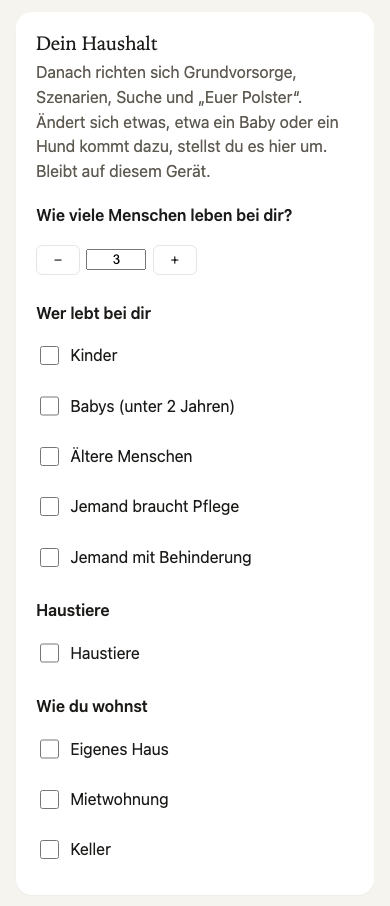
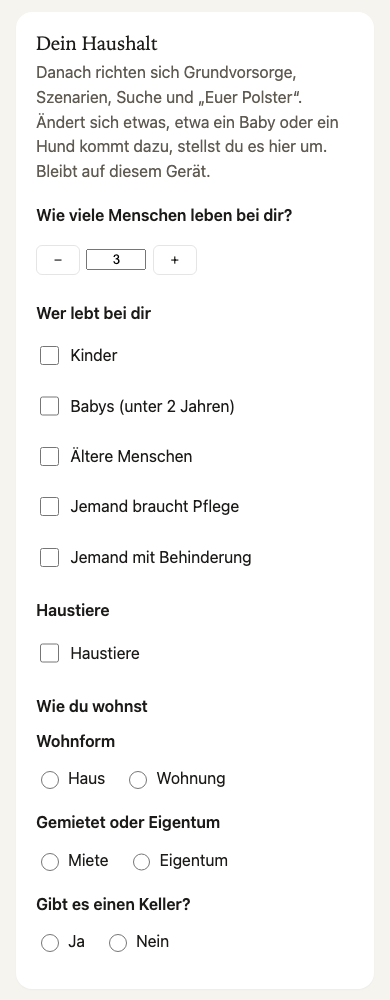
Nr. 40 Nachtrag: „Wie du wohnst“ als vier Fragen (Wohnform, Miete/Eigentum, Keller, Stockwerk)
- haushalt-v2.wohnen = { form: haus|wohnung, besitz: miete|eigentum, keller: ja/nein, stock (nur Wohnung) }; Merkmale weiter
  haus/miete/keller, neu wohnung/eigentum/stock-hoch (ab 4. Stock)
- Übernahme: Eigenes Haus → Haus + Eigentum, Mietwohnung → Wohnung + Miete, Keller → Keller Ja; Widersprüchliches bleibt offen
- Tests: Regel-Test für die Übernahme (auch „Keller ohne Wohnform“), Browser-Test (b) mit den neuen Feldern; Bilder neu

Changed region(s): [[0.0923, 0.0309, 0.8615, 0.4636], [0.0923, 0.4945, 0.6462, 0.9581], [0.0923, 0.4945, 0.1538, 0.5254]]

diff --git a/web/haushalt.js b/web/haushalt.js
@@ -7,7 +7,10 @@
 export const GRUPPEN = [["kinder", "Kinder"], ["babys", "Babys (unter 2 Jahren)"], ["aeltere", "Ältere Menschen"], ["pflege", "Jemand braucht Pflege"], ["behinderung", "Jemand mit Behinderung"]];
 /** Tierart: Schlüssel, Beschriftung, Einzahl, Mehrzahl. */
 export const TIERE = [["hund", "Hund", "Hund", "Hunde"], ["katze", "Katze", "Katze", "Katzen"], ["kaninchen", "Kaninchen", "Kaninchen", "Kaninchen"], ["vogel", "Vogel", "Vogel", "Vögel"], ["reptilien", "Reptilien", "Reptil", "Reptilien"], ["andere", "Andere", "anderes Tier", "andere Tiere"]];
-export const WOHNEN = [["haus", "Eigenes Haus"], ["miete", "Mietwohnung"], ["keller", "Keller"]];
+/** Wie man wohnt (Nachtrag Nr. 40, Mik: „Wer wohnt in einem Keller?“): vier eigene Fragen statt drei gleichrangiger Haken. */
+export const WOHNFORM = [["haus", "Haus"], ["wohnung", "Wohnung"]];
+export const BESITZ = [["miete", "Miete"], ["eigentum", "Eigentum"]];
+export const STOCK_HOCH = 4; // ab dem 4. Stock kommt oben zuerst kein Wasser mehr, und der Lift fällt aus
 const ALT_GRUPPEN = ["kinder", "aeltere", "pflege", "behinderung"];
 
 const zahl = (x, min, max) => Math.min(max, Math.max(min, Math.floor(Number(x) || 0)));
@@ -19,9 +22,22 @@ export function haushaltAngaben(h = {}) {
   return {
     personen: h.personen == null ? null : zahl(h.personen, 1, 20),
     gruppen, tiere: { an: !!h.tiere?.an, arten },
-    wohnen: WOHNEN.map(([k]) => k).filter((k) => (h.wohnen ?? []).includes(k)),
+    wohnen: wohnenAngaben(h.wohnen),
     eingestellt: !!h.eingestellt,
   };
+}
+
+const wahl = (x, liste) => (liste.some(([k]) => k === x) ? x : null);
+function wohnenAngaben(w) {
+  const o = w && !Array.isArray(w) ? w : {};
+  const form = wahl(o.form, WOHNFORM);
+  return { form, besitz: wahl(o.besitz, BESITZ), keller: o.keller === true ? true : o.keller === false ? false : null, stock: form === "wohnung" && o.stock != null ? zahl(o.stock, 0, 99) : null };
+}
+/** Alte Haken (Eigenes Haus · Mietwohnung · Keller) → die vier Fragen. Was sich widerspricht, bleibt offen – nicht raten. */
+function wohnenAusAlt(tags) {
+  const haus = tags.includes("haus"), miete = tags.includes("miete");
+  const eindeutig = haus !== miete;
+  return { form: eindeutig ? (haus ? "haus" : "wohnung") : null, besitz: eindeutig ? (haus ? "eigentum" : "miete") : null, keller: tags.includes("keller") ? true : null, stock: null };
 }
 
 /** Übernahme beim Update: alte Haken → Ja mit Anzahl 1; Personen aus dem Polster, wenn dort schon eine Zahl stand. */
@@ -31,7 +47,7 @@ export function haushaltAusAlt(alt = [], polsterPersonen = null) {
     personen: polsterPersonen ?? null,
     gruppen: Object.fromEntries(ALT_GRUPPEN.filter((k) => tags.includes(k)).map((k) => [k, 1])),
     tiere: { an: tags.includes("tiere"), arten: {} },
-    wohnen: tags.filter((k) => WOHNEN.some(([w]) => w === k)),
+    wohnen: wohnenAusAlt(tags),
     eingestellt: tags.length > 0, // wer schon Haken gesetzt hatte, hatte eingestellt
   });
 }
@@ -42,7 +58,11 @@ export function merkmale(h) {
   for (const [k] of GRUPPEN) if (h.gruppen[k]) m.push(k);
   if (h.gruppen.babys && !m.includes("kinder")) m.push("kinder");
   if (h.tiere.an) { m.push("tiere"); for (const [k] of TIERE) if (h.tiere.arten[k]) m.push(`tier-${k}`); }
-  m.push(...h.wohnen);
+  const w = h.wohnen;
+  if (w.form) m.push(w.form);
+  if (w.besitz) m.push(w.besitz);
+  if (w.keller) m.push("keller");
+  if (w.form === "wohnung" && (w.stock ?? 0) >= STOCK_HOCH) m.push("stock-hoch");
   if (h.eingestellt && !m.length) m.push("eingestellt"); // eingestellt, aber nichts davon: nur noch, was für alle gilt
   return m;
 }
@@ -56,7 +76,11 @@ export function zusammenfassung(h) {
     const arten = TIERE.filter(([k]) => h.tiere.arten[k]).map(([k, , eins, viele]) => `${h.tiere.arten[k]} ${h.tiere.arten[k] === 1 ? eins : viele}`);
     teile.push(arten.length ? arten.join(", ") : "Haustiere");
   }
-  for (const [k, n] of WOHNEN) if (h.wohnen.includes(k)) teile.push(n);
+  const w = h.wohnen;
+  if (w.form === "haus") teile.push("Haus");
+  if (w.form === "wohnung") teile.push(w.stock == null ? "Wohnung" : w.stock === 0 ? "Wohnung im Erdgeschoss" : `Wohnung im ${w.stock}. Stock`);
+  if (w.besitz) teile.push(w.besitz === "miete" ? "Miete" : "Eigentum");
+  if (w.keller === true) teile.push("Keller");
   return teile.join(", ");
 }
 
@@ -64,6 +88,8 @@ const esc = (s) => String(s ?? "").replace(/[&<>"]/g, (c) => ({ "&": "&amp;", "<
 const zahlFeld = (id, titel, wert, min, max) => `<div class="hh-zahl"><button type="button" class="btn of-btn hh-schritt" data-hh-schritt="${id}" data-hh-um="-1" aria-label="${esc(titel)}: weniger">−</button>
   <input class="of-input" id="hh-${id}" data-hh-zahl="${id}" type="number" inputmode="numeric" min="${min}" max="${max}" value="${wert}" aria-label="${esc(titel)}">
   <button type="button" class="btn of-btn hh-schritt" data-hh-schritt="${id}" data-hh-um="1" aria-label="${esc(titel)}: mehr">+</button></div>`;
+const frage = (id, titel, wahlen, gewaehlt) => `<div class="hh-frage" role="radiogroup" aria-labelledby="hh-f-${id}"><span class="hh-name" id="hh-f-${id}">${esc(titel)}</span>
+  <span class="hh-wahlen">${wahlen.map(([k, n]) => `<label class="hh-wahl"><input type="radio" name="hh-${id}" data-hh-wahl="wohnen-${id}" value="${k}" ${gewaehlt === k ? "checked" : ""}> ${esc(n)}</label>`).join("")}</span></div>`;
 const schalter = (id, titel, an) => `<label class="hh-schalter"><input type="checkbox" role="switch" data-hh-an="${id}" ${an ? "checked" : ""}> <span>${esc(titel)}</span></label>`;
 
 /** Abschnitt in den Einstellungen. */
@@ -79,7 +105,10 @@ export function haushaltEinstellungHtml(h) {
       ${h.tiere.an ? TIERE.map(([k, name, , viele]) => `<div class="hh-zeile hh-tier">${schalter(`tier-${k}`, name, !!h.tiere.arten[k])}${h.tiere.arten[k] ? zahlFeld(`tier-${k}`, `${viele}: Anzahl`, h.tiere.arten[k], 1, 50) : ""}</div>`).join("") : ""}
     </fieldset>
     <fieldset class="hh-gruppe"><legend>Wie du wohnst</legend>
-      ${WOHNEN.map(([k, n]) => `<div class="hh-zeile">${schalter(`wohnen-${k}`, n, h.wohnen.includes(k))}</div>`).join("")}
+      ${frage("form", "Wohnform", WOHNFORM, h.wohnen.form)}
+      ${frage("besitz", "Gemietet oder Eigentum", BESITZ, h.wohnen.besitz)}
+      ${frage("keller", "Gibt es einen Keller?", [["ja", "Ja"], ["nein", "Nein"]], h.wohnen.keller === true ? "ja" : h.wohnen.keller === false ? "nein" : null)}
+      ${h.wohnen.form === "wohnung" ? `<div class="hh-zeile"><span class="hh-name">In welchem Stock? <span class="muted of-klein">(0 = Erdgeschoss)</span></span>${zahlFeld("wohnen-stock", "Stockwerk", h.wohnen.stock ?? 0, 0, 99)}</div>` : ""}
     </fieldset>
   </section>`;
 }
@@ -91,7 +120,7 @@ export function haushaltAendern(h, feld, wert) {
   if (feld === "personen") n.personen = wert;
   else if (feld === "tiere") { n.tiere.an = !!wert; if (!wert) n.tiere.arten = {}; }
   else if (feld.startsWith("tier-")) { const a = feld.slice(5); if (wert === true) n.tiere.arten[a] = n.tiere.arten[a] || 1; else if (wert === false) delete n.tiere.arten[a]; else n.tiere.arten[a] = wert; }
-  else if (feld.startsWith("wohnen-")) { const w = feld.slice(7); n.wohnen = wert ? [...new Set([...n.wohnen, w])] : n.wohnen.filter((x) => x !== w); }
+  else if (feld.startsWith("wohnen-")) { const w = feld.slice(7); n.wohnen[w] = w === "keller" ? wert === "ja" || wert === true : wert; }
   else if (wert === true) n.gruppen[feld] = n.gruppen[feld] || 1;
   else if (wert === false) delete n.gruppen[feld];
   else n.gruppen[feld] = wert;

diff --git a/web/app.js b/web/app.js
@@ -2875,6 +2875,7 @@ main.addEventListener("change", (e) => {
     return pos ? bestaetigen(pos.id, t.checked) : render();
   }
   if (t.dataset.hhAn) { haushaltSetzen(haushaltAendern(state.haushaltV2, t.dataset.hhAn, t.checked)); document.querySelector(`[data-hh-an="${t.dataset.hhAn}"]`)?.focus(); return; } // Nr. 40
+  if (t.dataset.hhWahl) { haushaltSetzen(haushaltAendern(state.haushaltV2, t.dataset.hhWahl, t.value)); document.querySelector(`[data-hh-wahl="${t.dataset.hhWahl}"][value="${t.value}"]`)?.focus(); return; }
   if (t.dataset.hhZahl) { haushaltSetzen(haushaltAendern(state.haushaltV2, t.dataset.hhZahl, Number(t.value))); document.getElementById(t.id)?.focus(); return; }
 
   if (t.dataset.szCheck) { // Checkliste einer Szenario-Karte: gemerkt wird der Satz, nicht die Stelle
@@ -3060,9 +3061,9 @@ main.addEventListener("click", (e) => {
   const b = e.target.closest("[data-hh-schritt]");
   if (!b) return;
   const f = b.dataset.hhSchritt, um = Number(b.dataset.hhUm), h = state.haushaltV2;
-  const jetzt = f === "personen" ? h.personen ?? 1 : f.startsWith("tier-") ? h.tiere.arten[f.slice(5)] ?? 0 : h.gruppen[f] ?? 0;
+  const jetzt = f === "personen" ? h.personen ?? 1 : f === "wohnen-stock" ? h.wohnen.stock ?? 0 : f.startsWith("tier-") ? h.tiere.arten[f.slice(5)] ?? 0 : h.gruppen[f] ?? 0;
   const neu = jetzt + um;
-  if (f !== "personen" && neu < 1) return; // auf 0 nur über den Schalter
+  if (f === "wohnen-stock" ? neu < 0 : f !== "personen" && neu < 1) return; // Anzahl auf 0 nur über den Schalter; Stock ab 0
   haushaltSetzen(haushaltAendern(h, f, neu));
   document.querySelector(`[data-hh-schritt="${f}"][data-hh-um="${um}"]`)?.focus();
 });

diff --git a/web/styles.css b/web/styles.css
@@ -1038,3 +1038,7 @@ button.bereit-kreis:focus-visible, .bereit-zahl-knopf:focus-visible { outline: 3
 .hh-start .hh-zahl { margin: .4rem 0 1rem; }
 .hh-start [data-hh-start="spaeter"] { margin-left: .4rem; }
 .polster-personen { margin: 0; }
+.hh-frage { display: grid; gap: .2rem; padding: .3rem 0; }
+.hh-wahlen { display: flex; flex-wrap: wrap; gap: .3rem 1.2rem; }
+.hh-wahl { display: inline-flex; align-items: center; gap: .4rem; min-height: 44px; cursor: pointer; }
+.hh-wahl input { width: 1.1rem; height: 1.1rem; }
